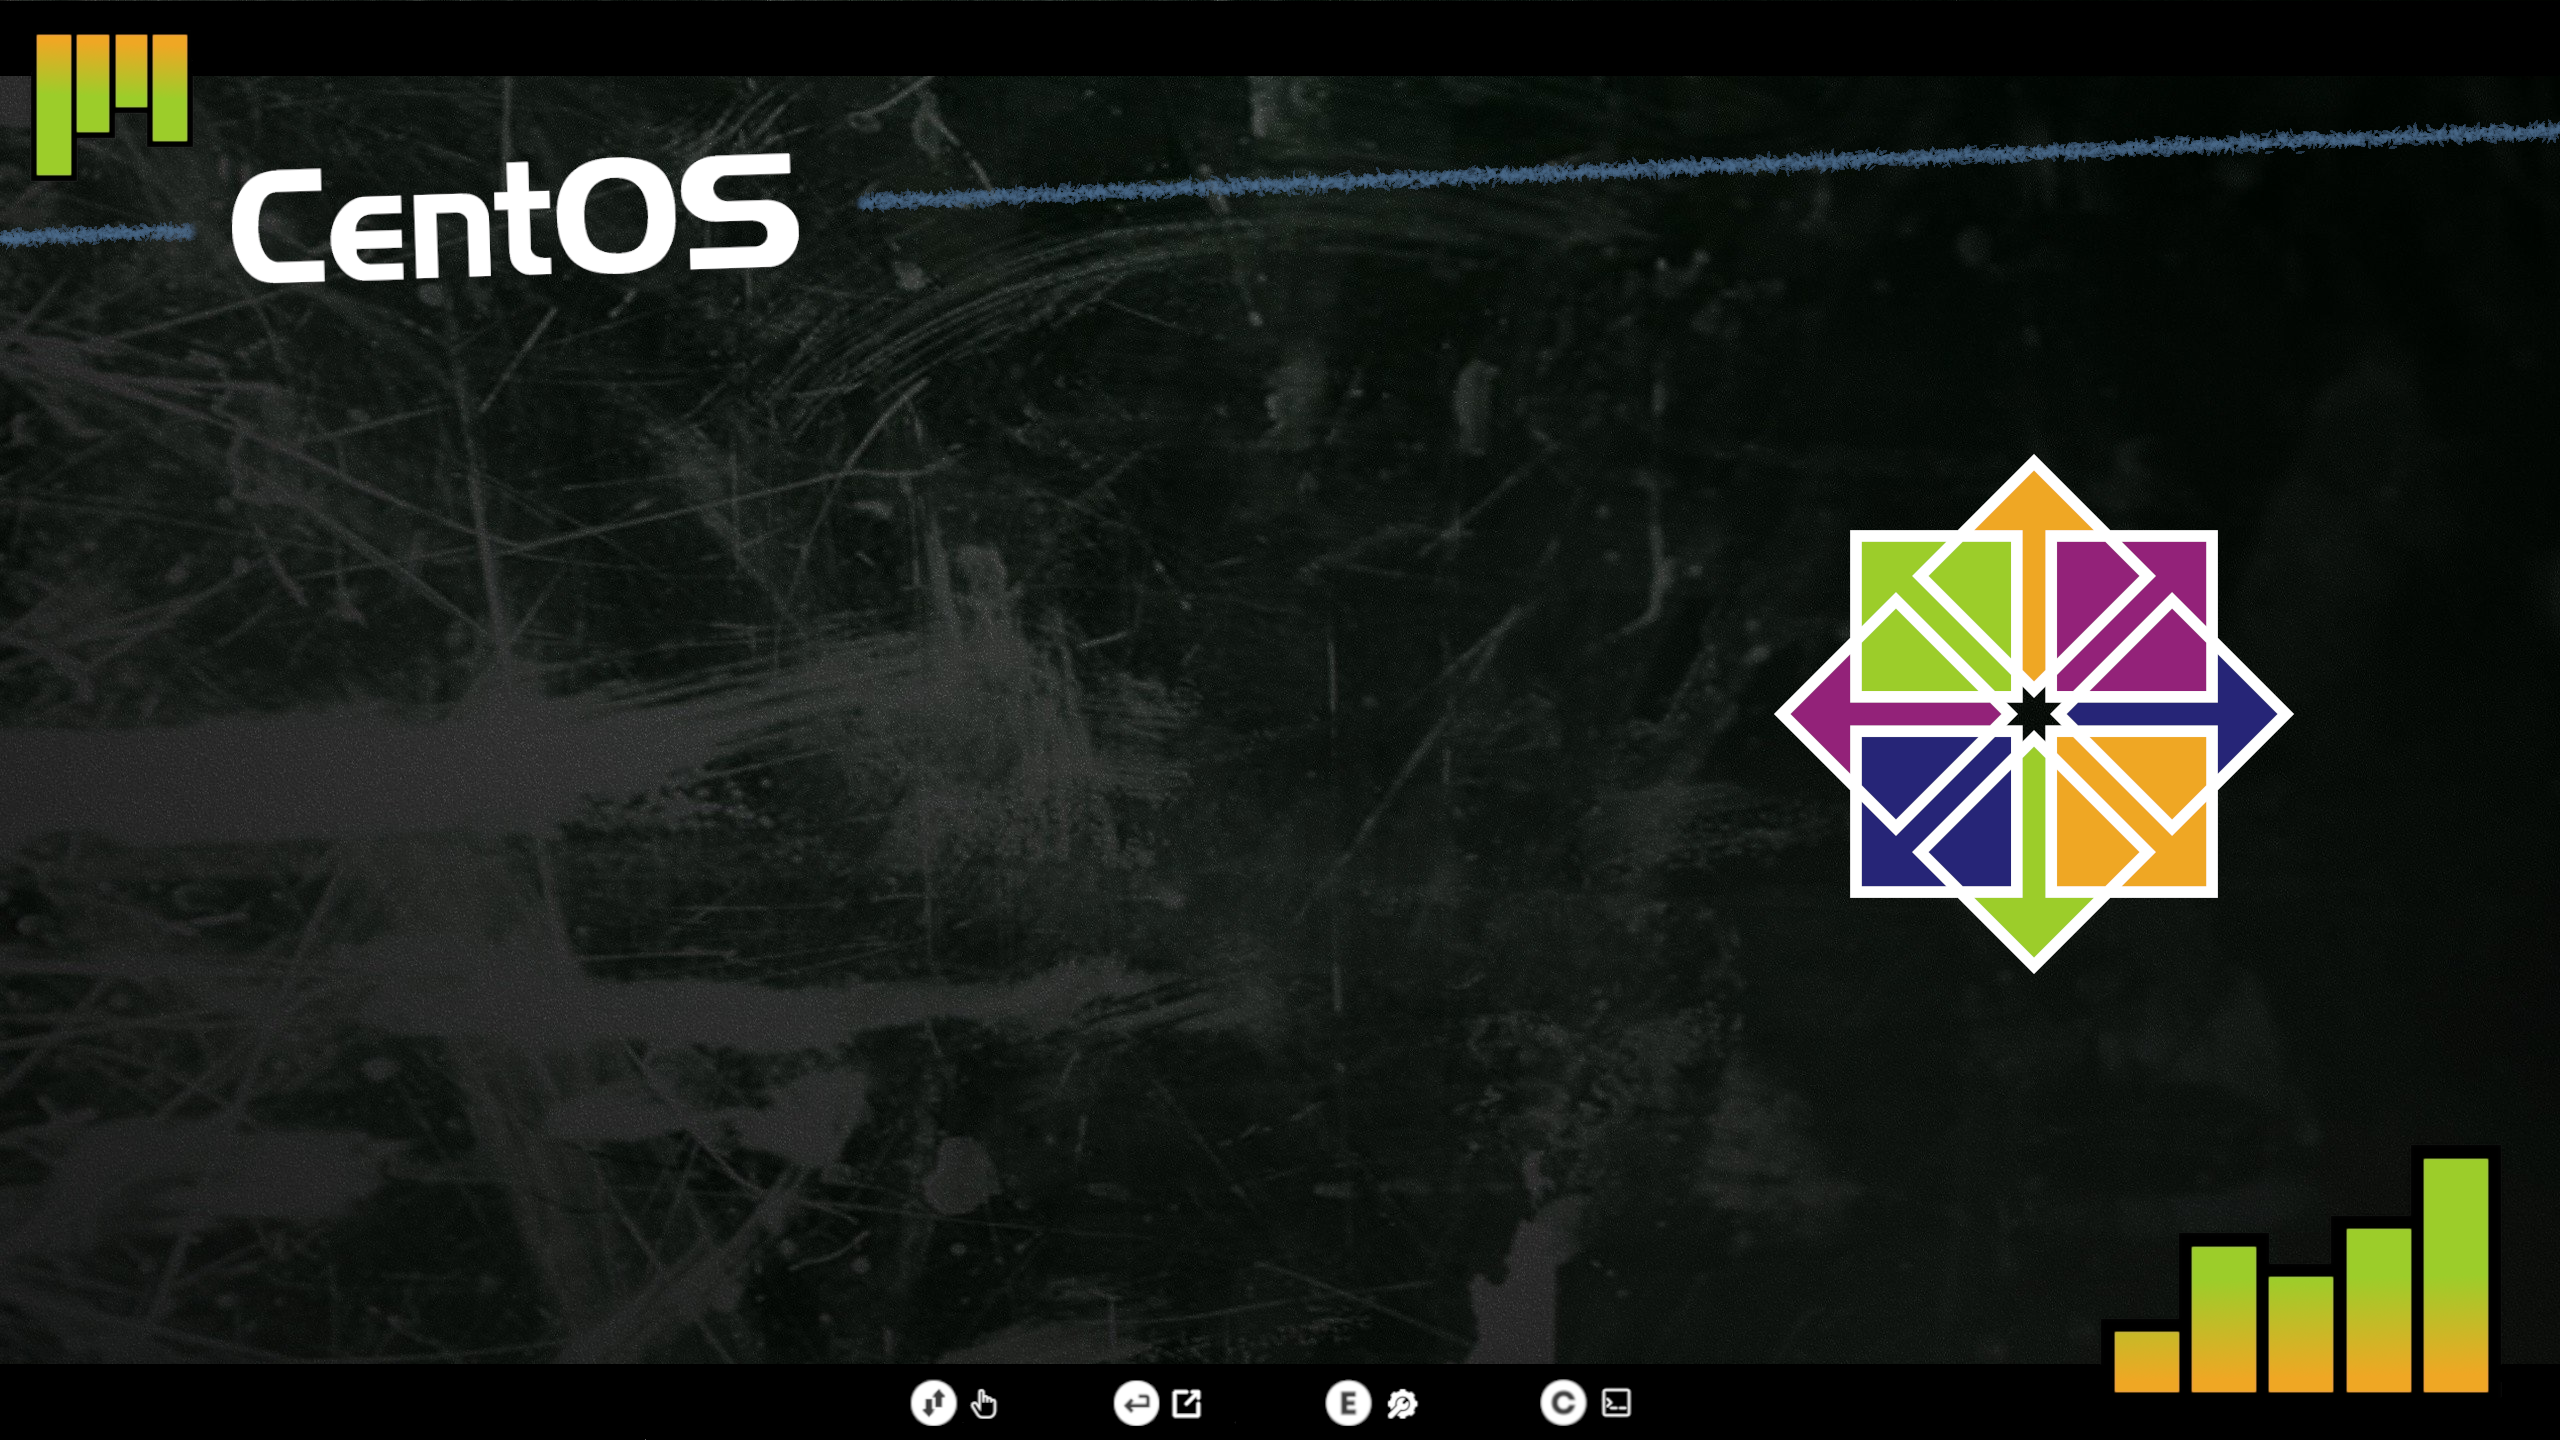
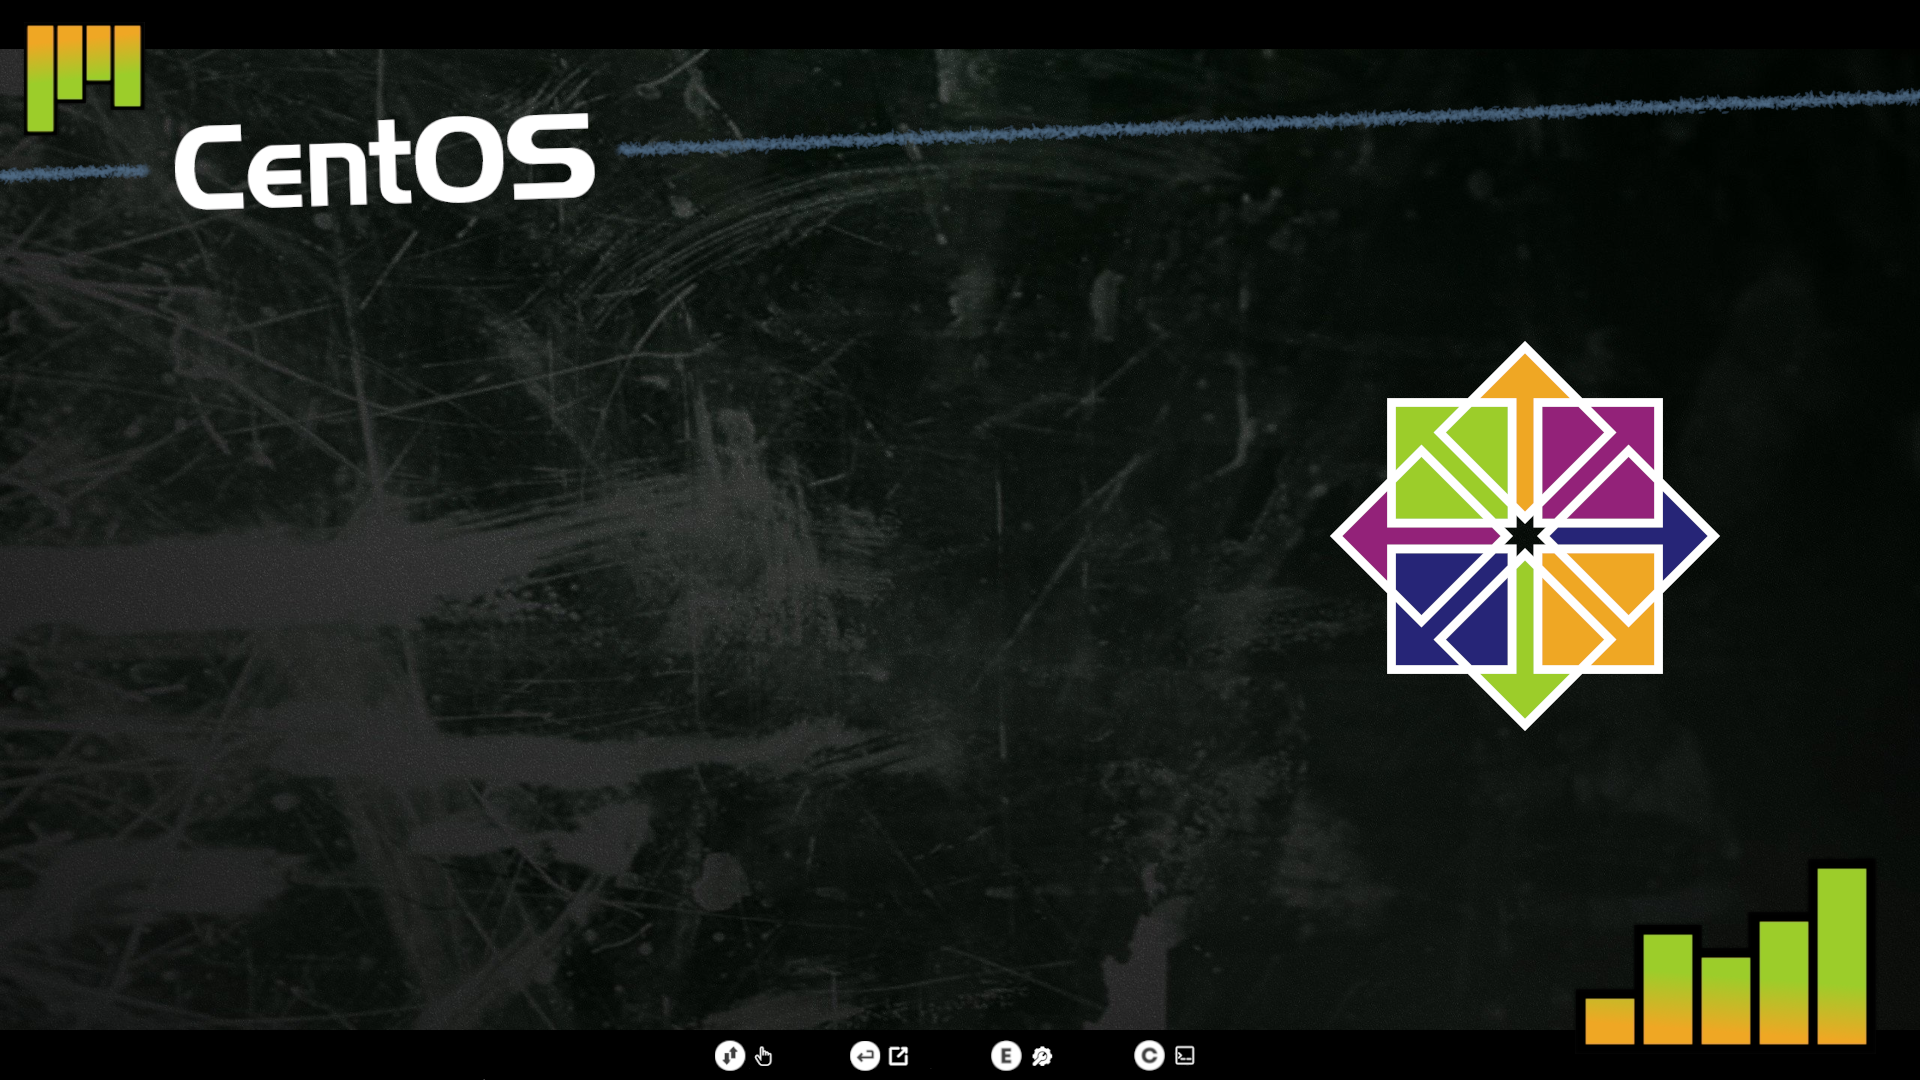
feat(grub): enable nortk GRUB theme for live ISO and installed system
Add <bootloader-theme> to config.xml.
Update static GRUB configs with font loading and set theme=.
Copy background.png from centos theme.
Update README.rst and rebuild tar.zst.

diff --git a/README.rst b/README.rst
@@ -100,9 +100,10 @@ Tema GRUB
 ---------
 
 GRUB configuration:
-- Live ISO uses static ``cdroot/boot/grub2/grub.cfg`` (injected via config-cdroot.tar.zst)
-- Disk installer uses ``grub.cfg.disk.iso-template``
-- Theme is in ``cdroot/boot/grub2/themes/nortk/``. Run ``scripts/update-cdroot.bash`` before building.
+- Live ISO uses static ``cdroot/boot/grub2/grub.cfg`` (injected via config-cdroot.tar.zst) with ``nortk`` theme explicitly loaded (fonts + ``set theme``).
+- Installed system uses ``<bootloader-theme>nortk</bootloader-theme>`` in config.xml (sets GRUB_THEME via kiwi + grub2-mkconfig).
+- Disk installer uses ``grub.cfg.disk.iso-template``.
+- Live theme assets in ``cdroot/boot/grub2/themes/nortk/`` (Dark Matter based + background.png); run ``scripts/update-cdroot.bash`` after changes.
 
 
 Referencias
